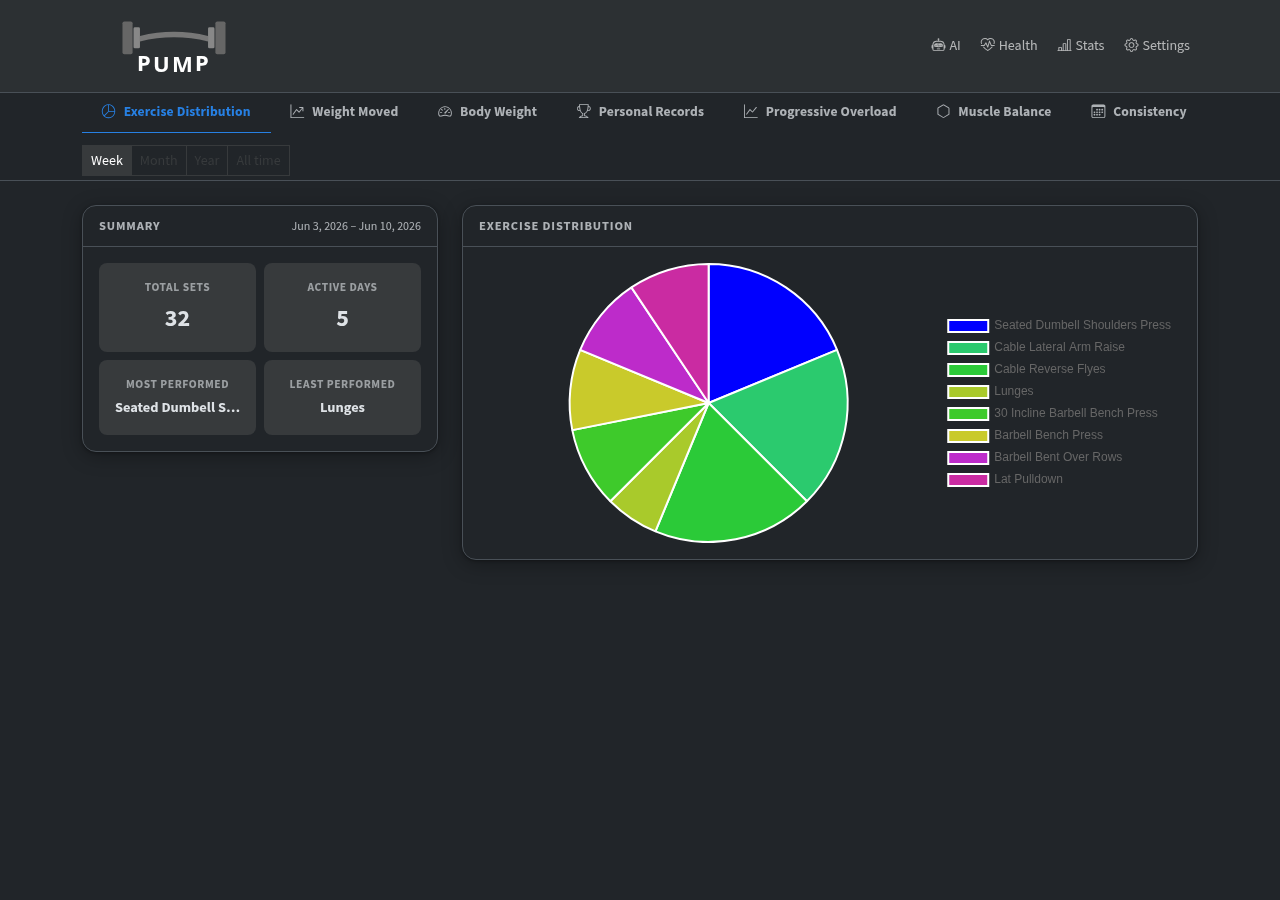
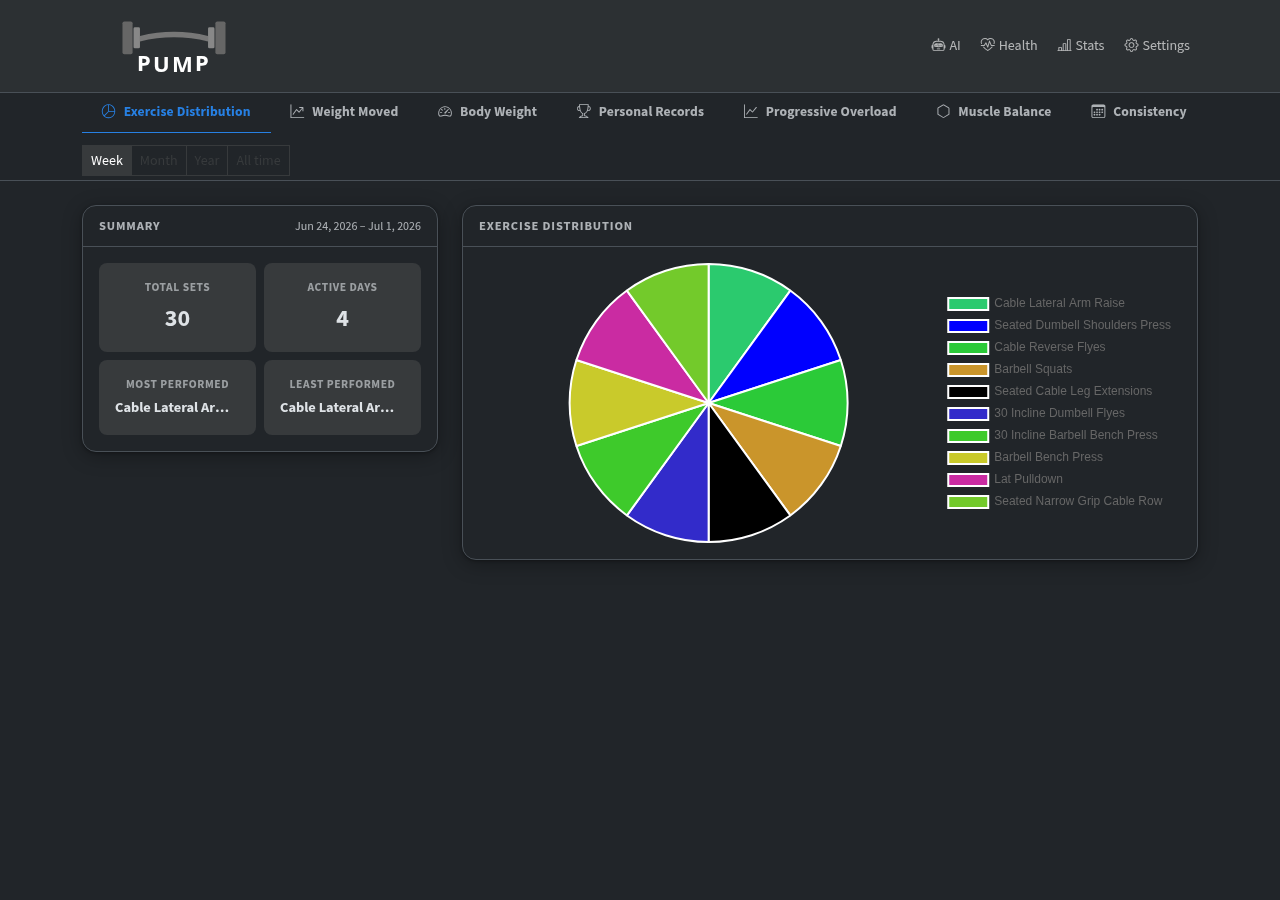
docs: regenerate all 11 screenshots; sync CLAUDE.md pre-tag list with README
Screenshots re-taken at 1280x900 against a clean prod-dump preview
running the current main (post-optimization pass). Visible deltas:
theme-token chart colors from the CSS-token PR.

CLAUDE.md's pre-tag screenshot list named only 5 of the 11 images the
README embeds; it now lists all 11 and notes the README table is the
authoritative set, plus a warning to shoot against a clean restore.

Pre-tag checklist for pump-v0.0.102 (migration v9 shipped in #51):
screenshots regenerated, README audited (env table, screenshots,
architecture all current), cruft scan clean.

diff --git a/CLAUDE.md b/CLAUDE.md
@@ -34,15 +34,21 @@ Complete all steps in order before running `git tag`:
 
 ### 1. Regenerate screenshots
 
-Take fresh screenshots of every page and tab at 1280×900 using the running preview server's CDP endpoint (see the Node.js CDP helper pattern established in this repo). Update all images in `assets/`:
+Take fresh screenshots of every page and tab at 1280×900 using the running preview server's CDP endpoint (see the Node.js CDP helper pattern established in this repo). Update all images in `assets/` — the authoritative set is whatever the README's screenshot table embeds; currently:
 
 - `screenshot-workout.png` — main workout page (`/`)
+- `screenshot-health.png` — Overall Health dashboard (`/health/`)
+- `screenshot-config.png` — Settings page (`/config/`)
 - `screenshot-stats-overview.png` — Stats › Exercise Distribution tab (`/stats/`)
 - `screenshot-stats-activity.png` — Stats › Weight Moved tab (click `#tab-activity-btn`)
 - `screenshot-stats-weight.png` — Stats › Body Weight tab (click `#tab-weight-btn`)
-- `screenshot-config.png` — Settings page (`/config/`)
+- `screenshot-stats-balance.png` — Stats › Muscle Balance tab (click `#tab-balance-btn`)
+- `screenshot-stats-steps.png` — Stats › Steps tab (click `#tab-steps-btn`)
+- `screenshot-stats-hr.png` — Stats › Heart Rate tab (click `#tab-hr-btn`)
+- `screenshot-stats-sleep.png` — Stats › Sleep tab (click `#tab-sleep-btn`)
+- `screenshot-stats-cardio.png` — Stats › Cardio tab (click `#tab-cardio-btn`)
 
-If a tab is added or removed, update this list and the README table to match.
+Shoot against a clean restore of the production dump — never against a database that test writes have touched. If a tab is added or removed, update this list and the README table to match.
 
 ### 2. Audit and update the README
 
